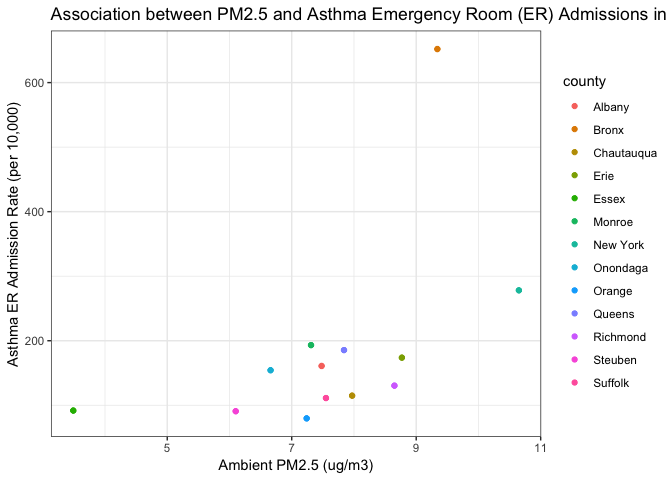
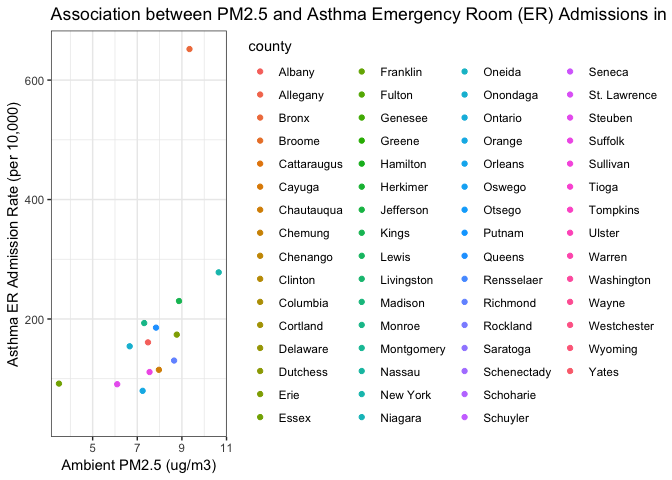
looking at how analysis changes if we include all counties pm/ozone

diff --git a/Website_Exploration_Clean_Up.md b/Website_Exploration_Clean_Up.md
@@ -34,14 +34,12 @@ asthma_hosp_nyc = read_csv("./data_website/asthma_ED_rate_10000.csv") %>%
 -   Asthma ER Admissions Rate Dataset, 2014
 
 ``` r
-asthma_ER_2014 = read_csv("./data_website/Asthma_ER_Rate_10000.csv") %>%
+asthma_hosp_nys = read_csv("./data_website/asthma_ED_rate_10000.csv") %>%
   janitor::clean_names() %>%
-  #filter(county_name == "Bronx" | county_name == "Kings" | county_name == "Queens" | county_name == "Richmond" | county_name == "New York") %>%
   select(county_name, percentage_rate_ratio, data_years) %>%
-  rename(asthma_ER_percent_rate = percentage_rate_ratio, 
-         asthma_ER_years = data_years) %>%
-  filter(county_name != "Long Island" & county_name != "New York City" & county_name != "Mid-Hudson" & county_name != "Capital Region" & county_name != "Mohawk Valley" & county_name != "North Country" & county_name != "Tug Hill Seaway" & county_name != "Central NY" & county_name != "Southern Tier" & county_name != "Finger Lakes" & county_name != "Western NY" & county_name != "New York State (excluding NYC)" & county_name != "New York State") %>% #to remove non-county regions
-  rename(county = county_name)
+  filter(!county_name %in% c("Capital Region", "Central NY", "Finger Lakes", "Long Island", "Mid-Hudson", "Mohawk Valley", "New York City", "New York State", "New York State (excluding NYC)", "North Country", "Southern Tier", "Tug Hill Seaway", "Western NY")) %>% 
+  rename(asthma_hosp_percent_rate_ratio = percentage_rate_ratio, 
+         asthma_hosp_years = data_years)
 ```
 
 CVD Datasets:
@@ -116,32 +114,37 @@ Joining CVD, asthma, and PM datasets:
 
 ``` r
 # Filtering counties from asthma dataset
-to_join_asthma_14 = asthma_ER_2014 %>%
-  filter(county == "Bronx" | county == "New York" | county == "Kings" | county == "Erie" | county == "Richmond" | county == "Chautauqua" | county == "Queens" | county == "Suffolk" | county == "Albany" | county == "Monroe" | county == "Orange" | county == "Onondaga" | county == "Steuben" | county == "Essex")
+to_join_asthma_14 = asthma_hosp_nys %>% 
+  rename("county" = county_name)
+  #asthma_ER_2014 %>% 
+#%>%
+  #filter(county == "Bronx" | county == "New York" | county == "Kings" | county == "Erie" | county == "Richmond" | county == "Chautauqua" | county == "Queens" | county == "Suffolk" | county == "Albany" | county == "Monroe" | county == "Orange" | county == "Onondaga" | county == "Steuben" | county == "Essex")
 
 # Filtering counties from CVD dataset
 to_join_cvd_14 = cvd_data_NYS %>%
-  rename("county" = county_name, "cvd_percent_rate" = percent_rate) %>% 
-  filter(county == "Bronx" | county == "New York" | county == "Kings" | county == "Erie" | county == "Richmond" | county == "Chautauqua" | county == "Queens" | county == "Suffolk" | county == "Albany" | county == "Monroe" | county == "Orange" | county == "Onondaga" | county == "Steuben" | county == "Essex")
+  rename("county" = county_name, "cvd_percent_rate" = percent_rate) #%>% 
+  #filter(county == "Bronx" | county == "New York" | county == "Kings" | county == "Erie" | county == "Richmond" | county == "Chautauqua" | county == "Queens" | county == "Suffolk" | county == "Albany" | county == "Monroe" | county == "Orange" | county == "Onondaga" | county == "Steuben" | county == "Essex")
   
 # Filtering counties from ozone dataset
 to_join_ozone_14 = ozone_county_NYS %>%
-  filter(year == "2014") %>%
-  filter(county == "Bronx" | county == "New York" | county == "Kings" | county == "Erie" | county == "Richmond" | county == "Chautauqua" | county == "Queens" | county == "Suffolk" | county == "Albany" | county == "Monroe" | county == "Orange" | county == "Onondaga" | county == "Steuben" | county == "Essex") %>%
+  filter(year == "2014", measure == "Person Days") %>%
+  #filter(county == "Bronx" | county == "New York" | county == "Kings" | county == "Erie" | county == "Richmond" | county == "Chautauqua" | county == "Queens" | county == "Suffolk" | county == "Albany" | county == "Monroe" | county == "Orange" | county == "Onondaga" | county == "Steuben" | county == "Essex") %>%
+  select(county, output, measure) %>% 
   rename(ozone_reading = output, ozone_unit = measure)
 
 # Filtering 2014 from PM dataset
 to_join_PM_14 = PM_county_NYS %>%
-  filter(year == "2014") %>%
+  filter(year == "2014", measure == "Micrograms/cubic meter (LC)") %>%
+  select(county, output, measure) %>% 
   rename(PM_reading = output, PM_unit = measure)
 
 # Creating joined dataset
-PM_ozone_joined = inner_join(to_join_ozone_14, to_join_PM_14, by = "county")
+PM_ozone_joined = full_join(to_join_ozone_14, to_join_PM_14, by = "county")
 
-cvd_asthma_joined = inner_join(to_join_cvd_14, to_join_asthma_14, by = "county")
+cvd_asthma_joined = left_join(to_join_cvd_14, to_join_asthma_14, by = "county")
 
-joined = inner_join(cvd_asthma_joined, PM_ozone_joined, by = "county") %>%
-  select(county, cvd_percent_rate, asthma_ER_percent_rate, ozone_reading, ozone_unit, PM_reading, PM_unit)
+joined = left_join(cvd_asthma_joined, PM_ozone_joined, by = "county") %>%
+  select(county, cvd_percent_rate, asthma_hosp_percent_rate_ratio, ozone_reading, ozone_unit, PM_reading, PM_unit)
 ```
 
 ### Plots
@@ -166,7 +169,7 @@ asthma_hosp_child_nyc %>%
 
     ## Warning: Ignoring unknown parameters: binwidth, bins, pad
 
-![](Website_Exploration_Clean_Up_files/figure-markdown_github/unnamed-chunk-1-1.png)
+![](Website_Exploration_Clean_Up_files/figure-markdown_github/asthma_child_bar-1.png)
 
 -   Asthma Emergency Department Visits in NYC, 2014
 
@@ -190,9 +193,9 @@ asthma_hosp_nyc %>%
 -   Asthma ER Admissions per County, 2014
 
 ``` r
-asthma_ER_2014 %>%
-    ggplot(aes(x = reorder(county, -asthma_ER_percent_rate), 
-               y = asthma_ER_percent_rate, group = 1)) + 
+asthma_hosp_nys %>%
+    ggplot(aes(x = reorder(county_name, -asthma_hosp_percent_rate_ratio), 
+               y = asthma_hosp_percent_rate_ratio, group = 1)) + 
   geom_histogram(stat = "identity") + 
   theme(axis.text.x = element_text(angle = 90)) + 
   labs(x = "County", y = "Asthma ER Admission Rate (per 10,000)", 
@@ -346,9 +349,8 @@ ozone_county_NYS %>%
 
 ``` r
 joined %>% 
-  filter(PM_unit == "Micrograms/cubic meter (LC)") %>%
   group_by(county) %>%
-  ggplot(aes(x = PM_reading, y = asthma_ER_percent_rate, color = county)) + 
+  ggplot(aes(x = PM_reading, y = asthma_hosp_percent_rate_ratio, color = county)) + 
   geom_point() + 
   labs(x = "Ambient PM2.5 (ug/m3)", 
        y = "Asthma ER Admission Rate (per 10,000)", 
@@ -356,13 +358,14 @@ joined %>%
   theme_bw()
 ```
 
+    ## Warning: Removed 48 rows containing missing values (geom_point).
+
 ![](Website_Exploration_Clean_Up_files/figure-markdown_github/asthma_pm-1.png)
 
 -   CVD & PM2.5, 2014
 
 ``` r
 joined %>%  
-  filter(PM_unit == "Micrograms/cubic meter (LC)") %>%
   group_by(county) %>%
   ggplot(aes(x = PM_reading, y = cvd_percent_rate, color = county)) + 
   geom_point() + 
@@ -375,15 +378,16 @@ joined %>%
   theme_bw()
 ```
 
+    ## Warning: Removed 48 rows containing missing values (geom_point).
+
 ![](Website_Exploration_Clean_Up_files/figure-markdown_github/cvd_pm-1.png)
 
 -   Asthma & Ozone, 2014
 
 ``` r
 joined %>% 
-  filter(ozone_unit == "Person Days") %>%
   group_by(county) %>%
-  ggplot(aes(x = ozone_reading, y = asthma_ER_percent_rate, color = county)) + 
+  ggplot(aes(x = ozone_reading, y = asthma_hosp_percent_rate_ratio, color = county)) + 
   geom_point() + 
   labs(x = "Ozone (person days)",
        y = "Asthma ER Admission Rate (per 10,000)", 
@@ -391,13 +395,14 @@ joined %>%
   theme_bw()
 ```
 
+    ## Warning: Removed 37 rows containing missing values (geom_point).
+
 ![](Website_Exploration_Clean_Up_files/figure-markdown_github/asthma_ozone-1.png)
 
 -   CVD & Ozone, 2014
 
 ``` r
 joined %>%  
-  filter(ozone_unit == "Person Days") %>%
   group_by(county) %>%
   ggplot(aes(x = ozone_reading, y = cvd_percent_rate, color = county)) +
   geom_point() + 
@@ -406,5 +411,7 @@ joined %>%
        title = "Association between Ozone and CVD Hospital Visits in New York State, 2014") +
   theme_bw()
 ```
+
+    ## Warning: Removed 36 rows containing missing values (geom_point).
 
 ![](Website_Exploration_Clean_Up_files/figure-markdown_github/cvd_ozone-1.png)
